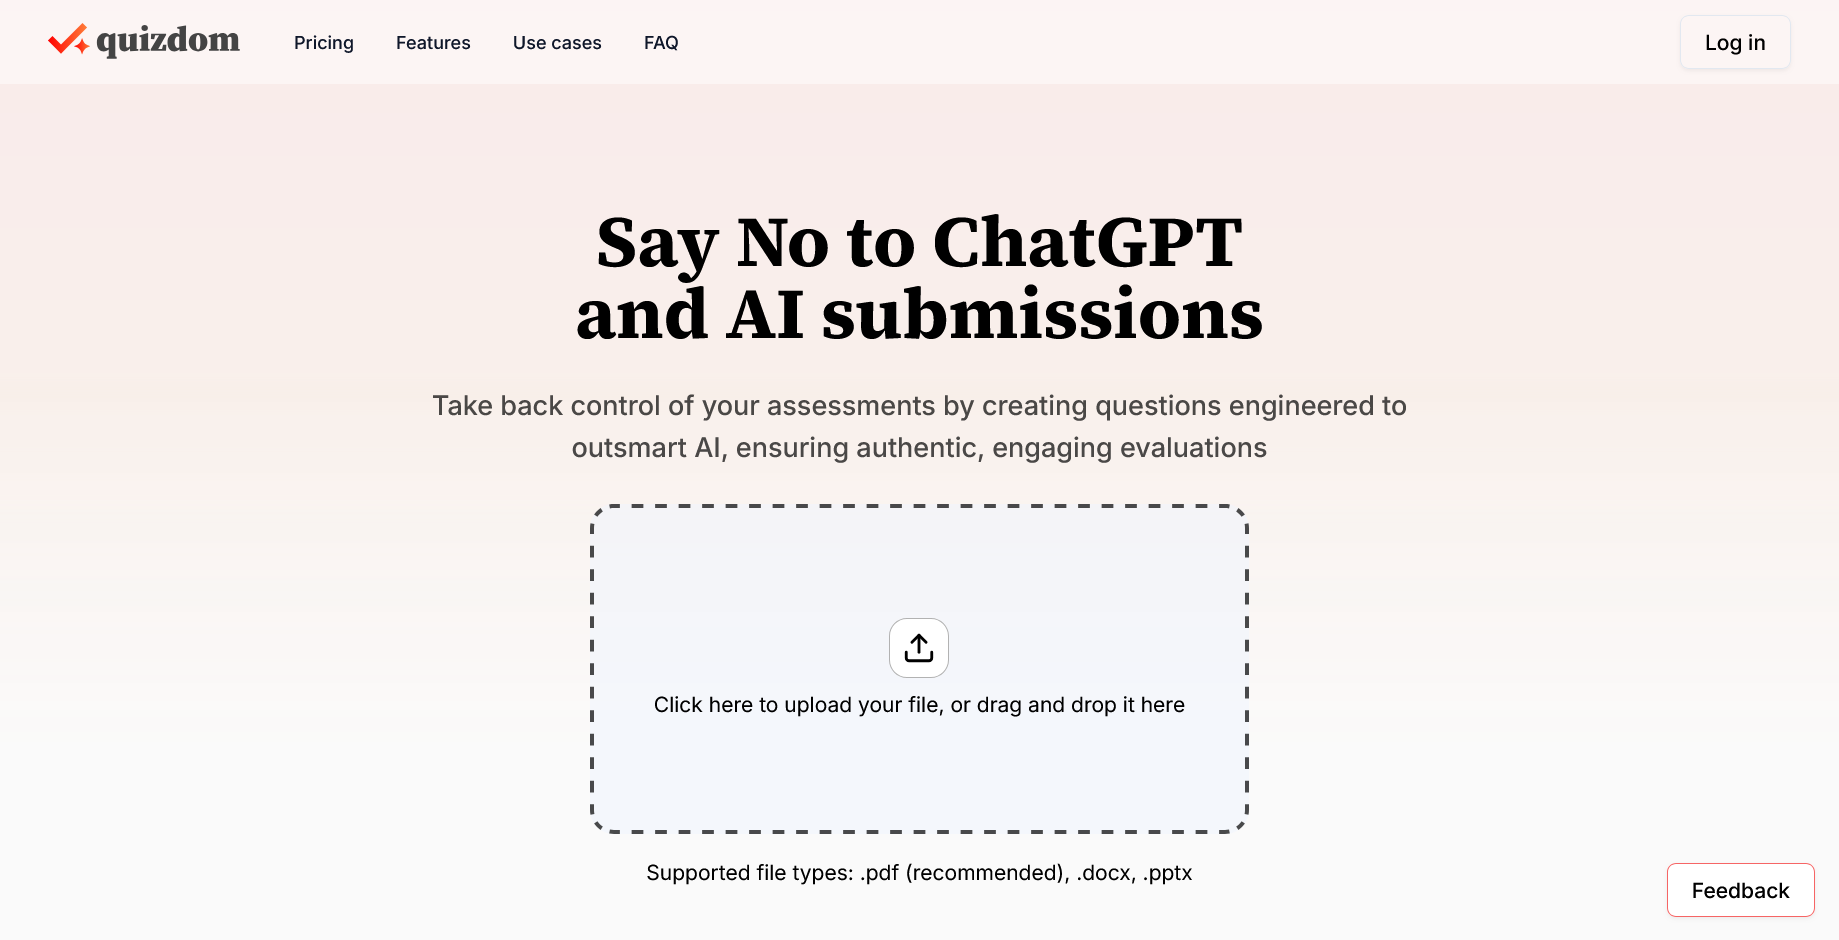
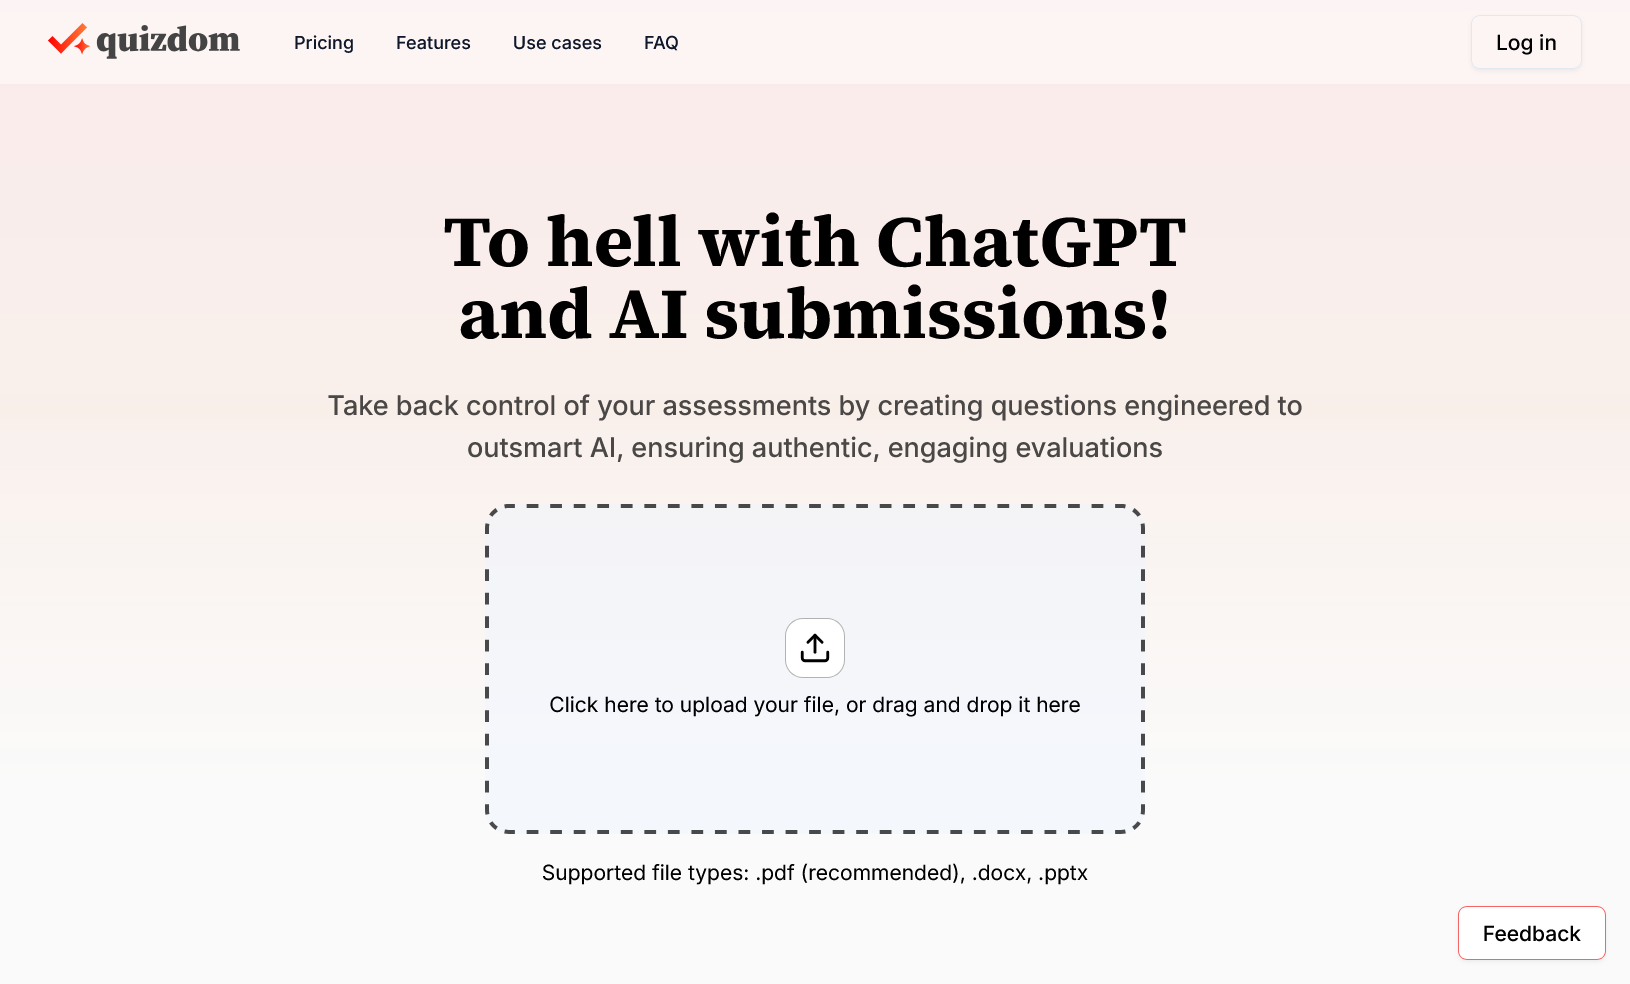
updating the hero heading

diff --git a/src/app/page.tsx b/src/app/page.tsx
@@ -31,7 +31,7 @@ export default function Home() {
               sourceSerif.className
             }
           >
-            Say No to ChatGPT and AI submissions
+            To hell with ChatGPT and AI submissions!
           </h1>
           <p className="md:text-lg text-black/70 md:font-medium">
             Take back control of your assessments by creating questions
